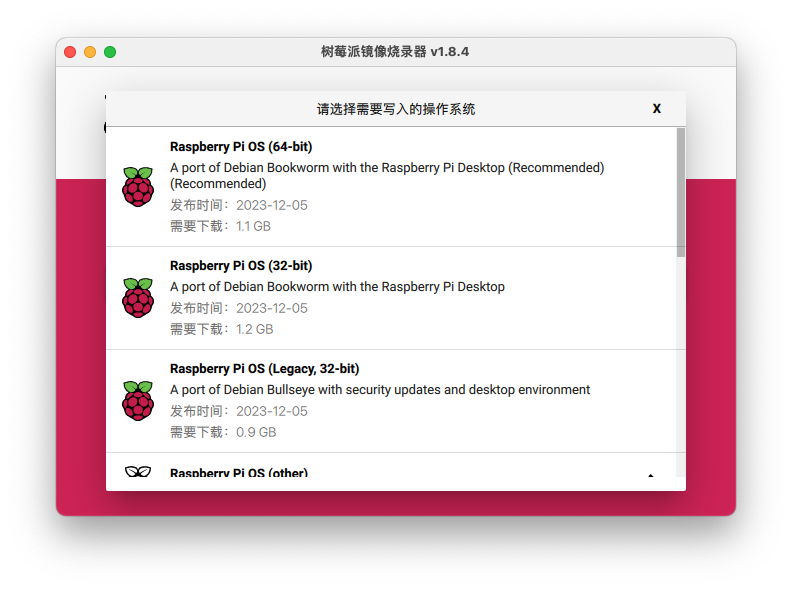
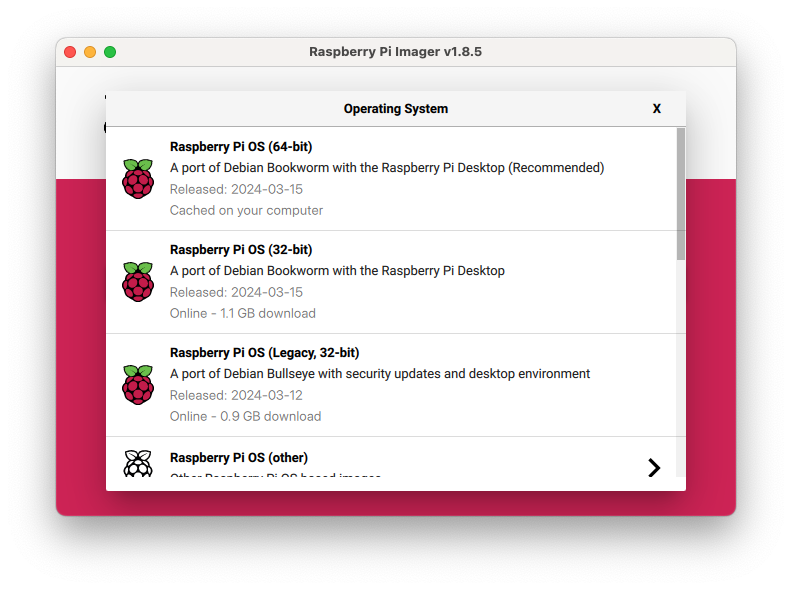
Update

diff --git a/_posts/2024-01-15-raspberrypi-setup.md b/_posts/2024-01-15-raspberrypi-setup.md
@@ -52,32 +52,32 @@ Connect the SD card to the computer with a card reader, open the Raspberry Pi Im
 ![系统写入_01](/img/in-post-imag/post-inner-raspberry-pi-imager-01.png)
 You can choose to configure the Raspberry Pi OS system in advance before performing the burn-in. It is also possible to enter the system and set it up again after the burn is complete.
 ![系统写入_02](/img/in-post-imag/post-inner-raspberry-pi-imager-02.png)
-这里以提前进行系统设置为例，点击**「编辑设置」**
+Here is an example of advance system setup，click **「EDIT SETTINGS」**
 ![系统写入_03](/img/in-post-imag/post-inner-raspberry-pi-imager-03.png)
-- **设置主机名称：**主机名称
-- **设置用户名和密码**
-- **配置 Wi-Fi：**这里不会显示 Wi-Fi 列表，需要直接填写 Wi-Fi 的 SSDN（即显示在Wi-Fi列表中的名字）
-- **语言和时区设置**
+- **Set hostname：**hostname
+- **Set username and password**
+- **Set Wi-Fi：**The Wi-Fi list will not be displayed here, you need to fill in the SSDN of the Wi-Fi directly (i.e. the name that is displayed in the Wi-Fi list)
+- **Language and time zone settings**
 
-完成上述设置之后，点击**「SERVICES」**，勾选**「开启SSH服务」**，并选择使用密码登陆。这里的密码就是前面设置的用户名和密码。
+After completing the above settings, click **"SERVICES "**, check **"Enable SSH service "**, and choose to log in with a password. The password here is the user name and password set earlier.
 ![系统写入_04](/img/in-post-imag/post-inner-raspberry-pi-imager-04.png)
-点击**「保存」**，开始写入系统。
+Click **"Save "** to start writing to the system.
 ![系统写入_05](/img/in-post-imag/post-inner-raspberry-pi-imager-05.png)
-烧录完成后，直接将 SD 卡插入 Raspberry Pi 即可。通电后，系统会自动初始化。<br>
-如果提前配置了系统，就会直接进入桌面。<br>
-如果没有提前设置，只需通过简单的系统引导配置，就可以进入桌面了。<br>
-有外界显示设备可以通过 HDMI 连接 Raspberry Pi 与外部显示设备。
-> **注意：** 每次系统烧录都会格式化 SD 卡，因此在烧录之前需要备份好 SD 卡中的数据
+After burning, insert the SD card into the Raspberry Pi directly. After power on, the system will be initialised automatically.<br>
+If the system is configured ahead of time, it will go straight to the desktop.<br>
+If you don't set it up ahead of time, you can access the desktop with a simple system boot configuration.<br>
+There are external display devices that can connect the Raspberry Pi to an external display device via HDMI.
+> **Note:** The SD card will be formatted each time the system is burned, so you need to back up the data on the SD card before burning.
 
-### 升级系统
-系统加载完成后，进入桌面。Raspberry Pi 桌面如下所示：
+### Updata System
+Once the system has finished loading, enter the desktop.The Raspberry Pi desktop is shown below:
 ![系统桌面](/img/in-post-imag/post-inner-raspberry-pi-desktop.png)
-系统安装完成的第一件事就是**升级系统**，打开终端，输入
+The first thing to do when the system installation is complete is to **Upgrade the system**, open the terminal and type in
 ```bash
 sudo apt-get update
 sudo apt-get upgrade
 ```
-> **注意：** 如果在升级的过程中弹出 (Y/N) 选择，输入 Y 后按回车即可。首次升级可能需要花费大量的时间，请耐心等待。
+> **Note:** If the (Y/N) selection pops up during the upgrade process, enter Y and press Enter. The first upgrade may take a significant amount of time, so please be patient.
 
 # 远程连接 Raspberry Pi
 ---
